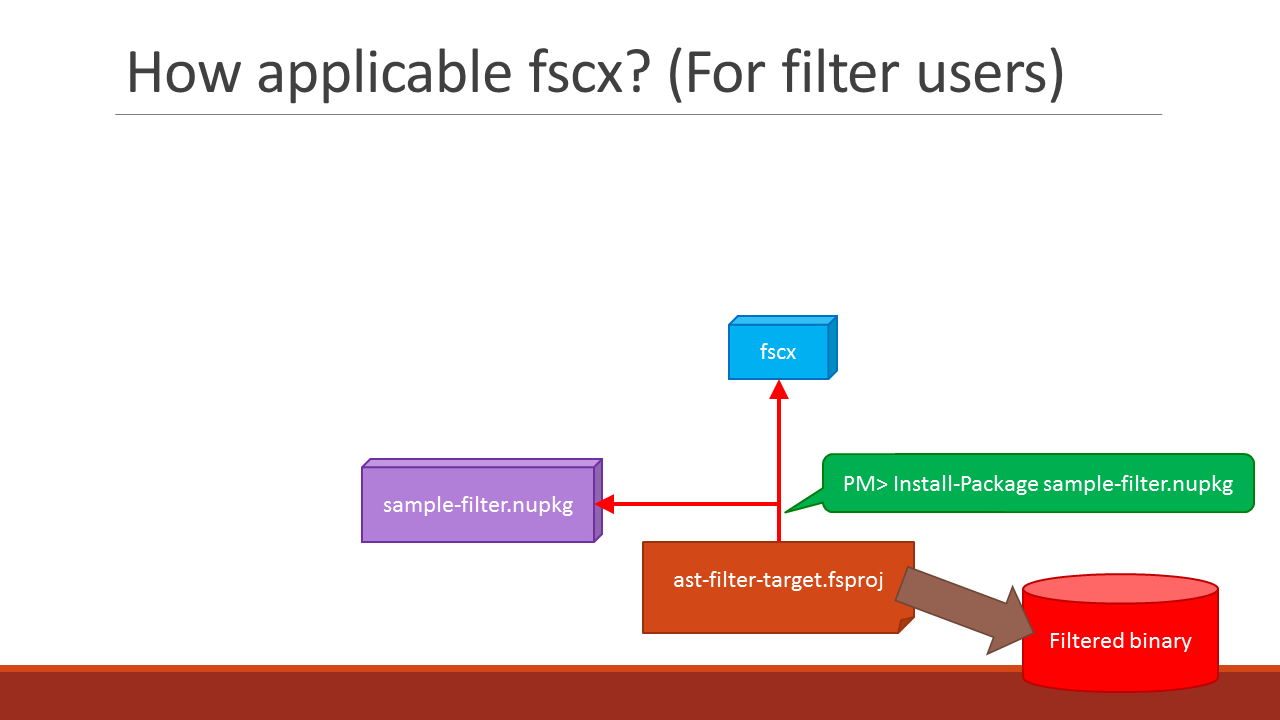
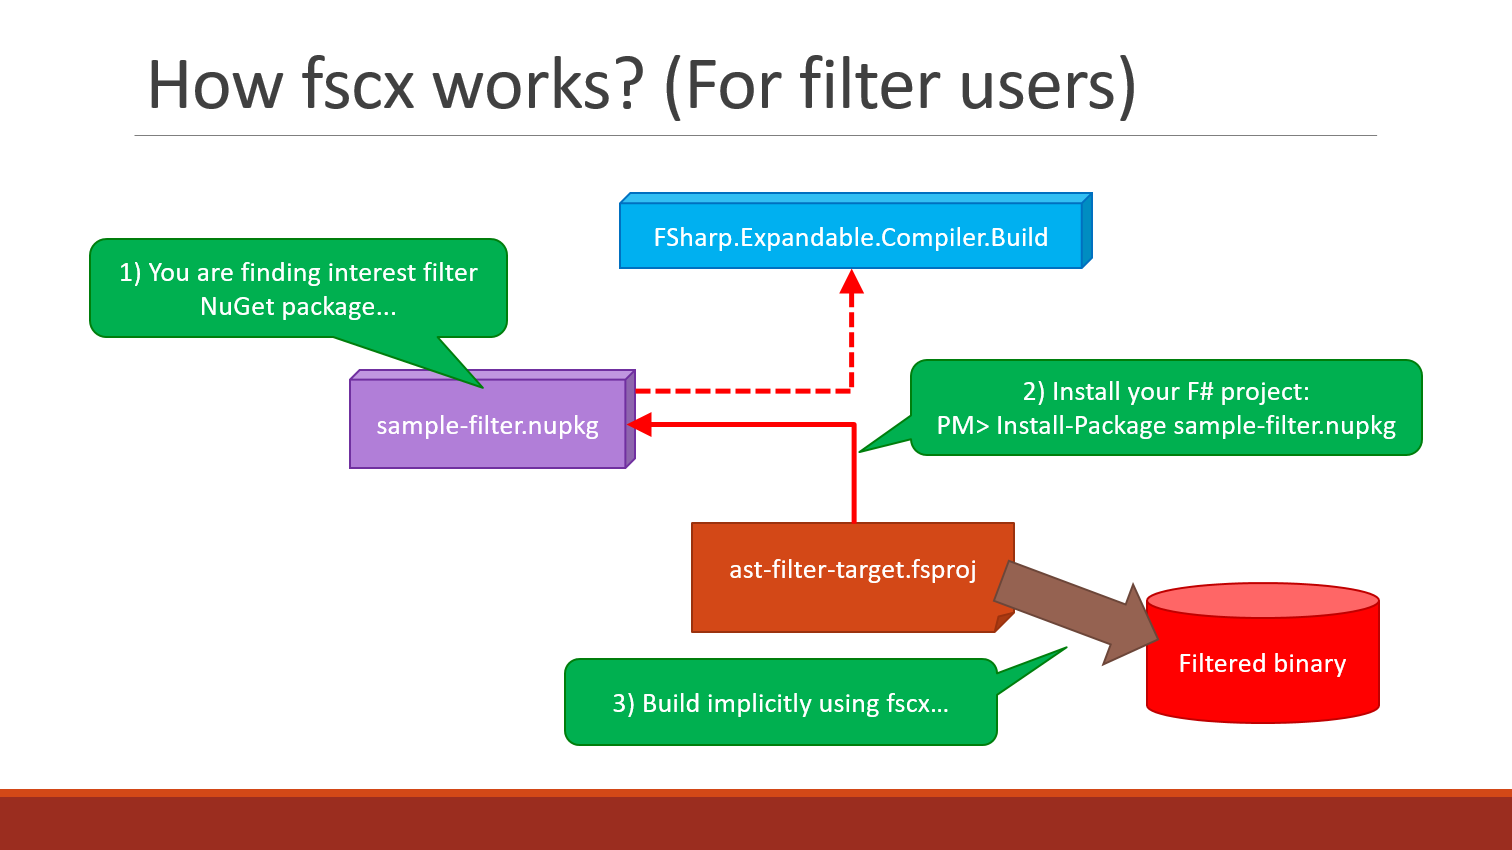
Update slides, READMEs.

diff --git a/README.md b/README.md
@@ -18,19 +18,28 @@ Expandable F# compiler (fscx) is an alternative F# compiler which enables to rep
 
 ## How fscx works?
 
-fscx can apply user defined filters at compile time.
+### For filter users
 
+fscx can apply user defined filters at compile time.
 To use fscx, you need to install fscx's filter packages via NuGet.
 
-* TODO: We're planning to change NuGet package id from "fscx" to "FSharp.Expandable.Compiler.Build"
-
 ![For filter users](https://github.com/fscx-projects/fscx/raw/master/docs/files/img/HowApplicableFscx/slide1.png)
+
+### For filter developers
 
 For developers who want to create filters, you need to install `FSharp.Expandable.Compiler.Core` via NuGet to your project, build the project to create a nupkg, and then publish the nupkg file.
 
 ![For filter developers](https://github.com/fscx-projects/fscx/raw/master/docs/files/img/HowApplicableFscx/slide2.png)
 
-## Filter project sample nuspec
+### Overall
+
+Building architechture overall illustrated:
+
+![Overall](https://github.com/fscx-projects/fscx/raw/master/docs/files/img/HowApplicableFscx/slide3.png)
+
+## Filter project sample nuspec (For filter developer)
+
+Pack to the filter package, using NuGet with following sample nuspec definitions:
 
 ```xml
 <?xml version="1.0"?>
@@ -55,7 +64,7 @@ For developers who want to create filters, you need to install `FSharp.Expandabl
     </dependencies>
   </metadata>
   <files>
-    <!-- Place filter binary (and pdb) into "build" package folder (NOT into "lib"). -->
+    <!-- Place filter binary (and if require pdb) into "build" package folder (NOT into "lib"). -->
     <!-- Because prevent auto added assembly reference. -->
     <file src="bin/Debug/sample_filter.dll" target="build" />
     <file src="bin/Debug/sample_filter.pdb" target="build" />
